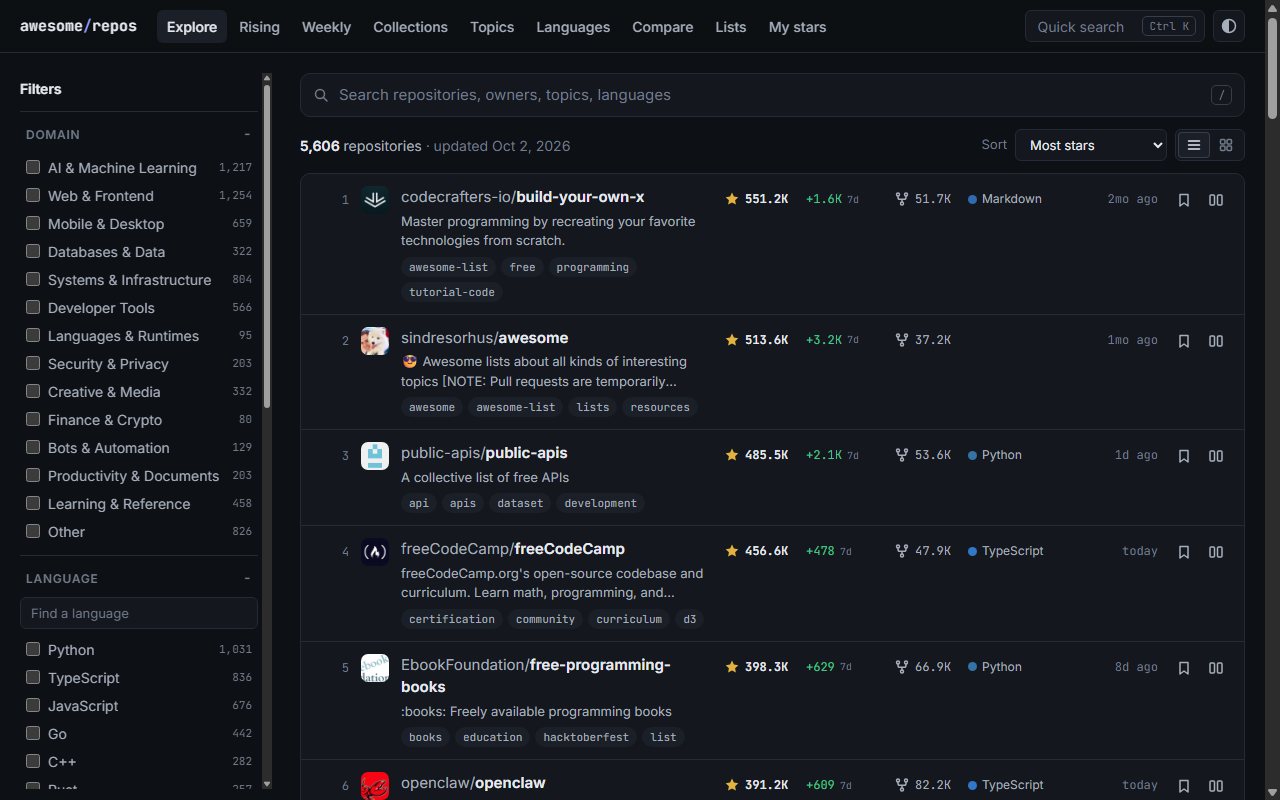
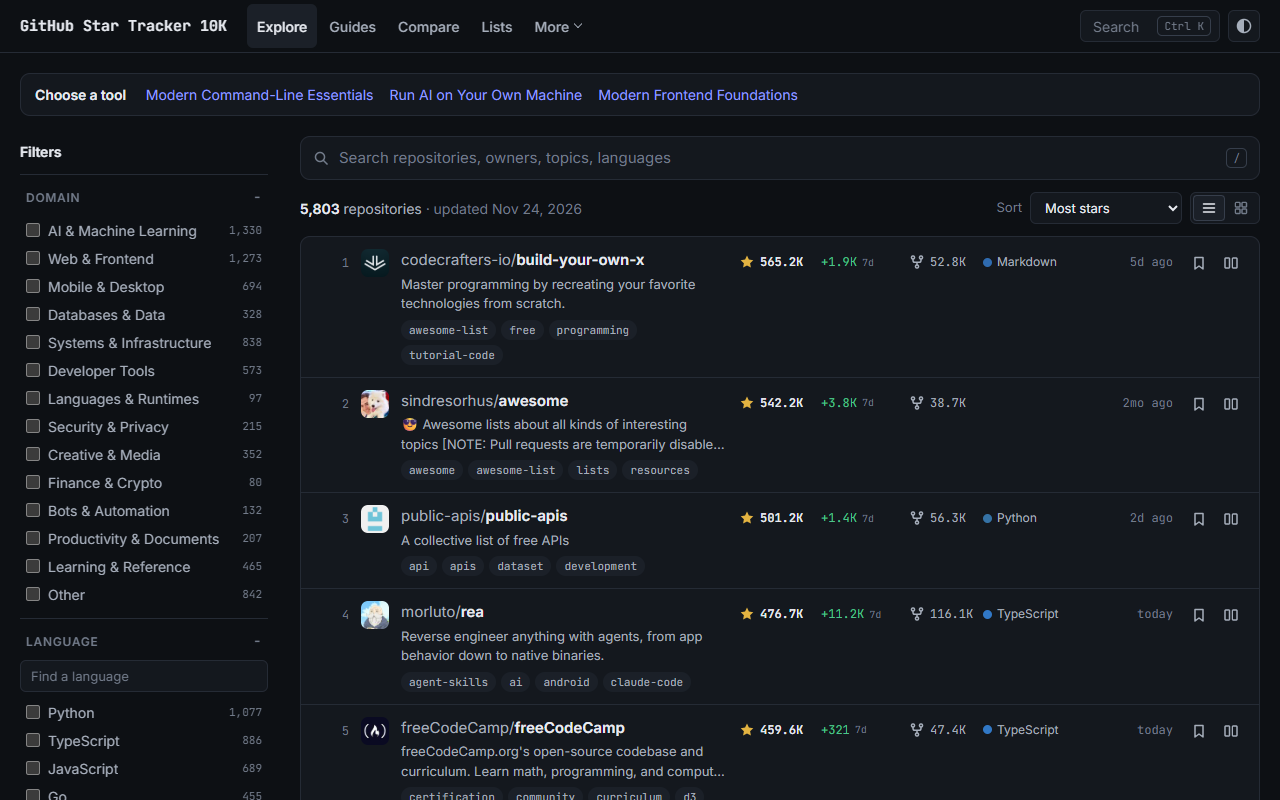
Rename to GitHub Star Tracker 10K and improve the README

diff --git a/apps/web/src/pages/weekly/feed.xml.ts b/apps/web/src/pages/weekly/feed.xml.ts
@@ -1,6 +1,7 @@
 import type { APIRoute } from 'astro';
 import { getSnapshot } from '../../lib/data';
 import { href, weekPath } from '../../lib/paths';
+import { WEEKLY_FEED_TITLE } from '../../lib/site';
 import { weekBasis, weekSummary, weekTitle } from '../../lib/weekly';
 
 function escapeXml(value: string): string {
@@ -26,7 +27,7 @@ export const GET: APIRoute = ({ site }) => {
   const feed = `<?xml version="1.0" encoding="UTF-8"?>
 <rss version="2.0">
   <channel>
-    <title>awesome/repos weekly</title>
+    <title>${escapeXml(WEEKLY_FEED_TITLE)}</title>
     <link>${escapeXml(absolute(href('/weekly/')))}</link>
     <description>What changed each week among GitHub repositories with 10,000+ stars.</description>
     <language>en</language>

diff --git a/apps/web/src/styles/base.css b/apps/web/src/styles/base.css
@@ -189,10 +189,6 @@ main.shell {
   text-decoration: none;
 }
 
-.brand span {
-  color: var(--accent);
-}
-
 .nav {
   display: flex;
   gap: 2px;
@@ -703,7 +699,11 @@ input::placeholder {
 }
 
 @media (max-width: 760px) {
-  .palette-button span {
+  .palette-button {
+    padding-inline: 8px;
+  }
+
+  .palette-button kbd {
     display: none;
   }
 
@@ -731,6 +731,14 @@ input::placeholder {
 }
 
 @media (max-width: 360px) {
+  .topbar-inner {
+    column-gap: 8px;
+  }
+
+  .brand {
+    font-size: 13px;
+  }
+
   .nav {
     gap: 0;
   }

diff --git a/packages/pipeline/src/github/health.ts b/packages/pipeline/src/github/health.ts
@@ -53,7 +53,7 @@ async function queryBatch(ids: string[], options: Required<HealthOptions>): Prom
         headers: {
           Authorization: `Bearer ${options.token}`,
           'Content-Type': 'application/json',
-          'User-Agent': 'awesome-github-repos',
+          'User-Agent': 'github-star-tracker-10k',
         },
         body: JSON.stringify({ query: QUERY, variables: { ids } }),
         signal: AbortSignal.timeout(REQUEST_TIMEOUT_MS),

diff --git a/packages/pipeline/src/github/client.ts b/packages/pipeline/src/github/client.ts
@@ -104,7 +104,7 @@ export class GitHubClient {
     const headers: Record<string, string> = {
       Accept: 'application/vnd.github+json',
       'X-GitHub-Api-Version': '2022-11-28',
-      'User-Agent': 'awesome-github-repos',
+      'User-Agent': 'github-star-tracker-10k',
     };
     if (this.token) headers.Authorization = `Bearer ${this.token}`;
 

diff --git a/apps/web/src/lib/paths.ts b/apps/web/src/lib/paths.ts
@@ -1,4 +1,4 @@
-/** Site-relative links that respect the deploy base path (e.g. /awesome-github-repos/). */
+/** Site-relative links that respect the deploy base path. */
 
 const BASE = (import.meta.env.BASE_URL ?? '/').replace(/\/$/, '');
 

diff --git a/apps/web/src/lib/site.ts b/apps/web/src/lib/site.ts
@@ -1,0 +1,2 @@
+export const SITE_NAME = 'GitHub Star Tracker 10K';
+export const WEEKLY_FEED_TITLE = `${SITE_NAME} Weekly`;

diff --git a/README.md b/README.md
@@ -1,31 +1,30 @@
-# awesome-github-repos
+# GitHub Star Tracker 10K
 
-Every public GitHub repository with 10,000+ stars, in a fast explorer that refreshes itself daily.
+Find the most-starred GitHub repositories and see which ones are gaining stars. The tracker covers every public repository with **10,000+ stars** and refreshes daily.
+
+## [Open the live website](https://joshi595.github.io/github-star-tracker-10k/)
+
+[Rising repositories](https://joshi595.github.io/github-star-tracker-10k/rising/) · [Tool guides](https://joshi595.github.io/github-star-tracker-10k/collections/) · [Compare repositories](https://joshi595.github.io/github-star-tracker-10k/compare/) · [Weekly reports](https://joshi595.github.io/github-star-tracker-10k/weekly/)
 
 <!-- STATS:START -->
 **5,800** repositories with 10,000+ stars, as of **2026-11-23**.
 <!-- STATS:END -->
 
-**Live site: [joshi595.github.io/awesome-github-repos](https://joshi595.github.io/awesome-github-repos/)**
+[![The live explorer showing popular GitHub repositories, star counts, weekly gains, and filters](.github/assets/screenshot.png)](https://joshi595.github.io/github-star-tracker-10k/)
 
-[![Publish](https://github.com/Joshi595/awesome-github-repos/actions/workflows/publish.yml/badge.svg)](https://github.com/Joshi595/awesome-github-repos/actions/workflows/publish.yml)
-[![License: MIT](https://img.shields.io/badge/license-MIT-blue.svg)](LICENSE)
+## What you can do on the site
 
-[![The explorer: a searchable, filterable list of repositories with star counts and weekly gains](.github/assets/screenshot.png)](https://joshi595.github.io/awesome-github-repos/)
+- **Find projects** by language, topic, domain, star count, or activity. Share a link to your filtered results.
+- **Track star growth** with repository history charts, weekly and monthly rankings, and reports on projects crossing 10,000 stars. Subscribe via the [weekly RSS feed](https://joshi595.github.io/github-star-tracker-10k/weekly/feed.xml).
+- **Compare your options** by putting up to four repositories side by side. Check releases, issues, and similar projects, or use the tool guides to weigh trade-offs.
+- **Save what you find** in browser-based shortlists you can share or export as Markdown. Enter a GitHub username to see which popular repositories it has starred and discover related projects.
 
-## What you can do with it
+## Rankings on GitHub
 
-- **Search and filter** by domain, language, topic, star count, activity and age. Every view has a shareable URL.
-- **See what is rising.** The site records star counts daily, so it can show weekly and monthly gainers, new entrants to the 10k club, and rank climbers. A plain star ranking cannot.
-- **Read the weekly report.** Each week gets a page with a permanent address (and an RSS feed): top gainers, fastest growers, what joined the list and what left it.
-- **Open any repository** for its star history chart, release and issue figures, similar projects and the collections it appears in.
-- **Understand a repository in one click.** Each one links to tools that explain it, diagram its architecture, digest it for an AI assistant, or write a prompt to rebuild it.
-- **Compare** up to four repositories side by side, with their growth on one chart.
-- **Check your stars.** Enter a GitHub username to see which top repositories it has starred, which are rising, and what it might like next.
-- **Save shortlists** in your browser, export them as Markdown, and share them with a link. No account.
-- **Choose a tool** with guides for the command line, local AI, and frontend development. See where each option fits, compare the trade-offs, and save your shortlist.
+The table below and the [lists by domain](lists/) are refreshed weekly.
 
-## Top 100
+<details>
+<summary>Show the top 100 repositories by stars</summary>
 
 <!-- TOP:START -->
 | # | Repository | Stars | Language | Description |
@@ -132,45 +131,32 @@ Every public GitHub repository with 10,000+ stars, in a fast explorer that refre
 | 100 | [JuliusBrussee/caveman](https://github.com/JuliusBrussee/caveman) | 122,380 | Go | why use many token when few token do trick. Skill + local proxy for coding agents: shorter answers, smaller tool output, every original recoverable. |
 <!-- TOP:END -->
 
-More Markdown lists, one per domain, are in [lists/](lists/). The site has the complete, searchable list.
-
-## How it works
-
-```
-content/            editorial input: domain taxonomy and collections
-packages/schema/    the data contract (zod schemas and types) shared by everything
-packages/pipeline/  fetch from GitHub -> classify -> history and momentum -> snapshot
-apps/web/           Astro site built from the snapshot
-fixtures/           a small sample so everything builds without a GitHub token
-.github/workflows/  daily publish, weekly README refresh, CI
-```
-
-1. `publish.yml` runs daily. It fetches every qualifying repository from GitHub's search API, splitting the star range so each query stays under GitHub's 1,000-result cap.
-2. The pipeline classifies each repository into domains, appends the day's star counts to the history, and derives momentum and similar repositories.
-3. The site is built from that snapshot and deployed to GitHub Pages.
-
-`main` holds code and editorial content only. Star history (one small file per day) and finished weekly reports live on the `data` branch. The full snapshot is never committed: the deployed site serves it at `/data/snapshot.json`.
-
-If a fetch comes back with far fewer repositories than the day before, the pipeline refuses to publish and the site keeps its last good data.
+</details>
 
 ## Run it locally
 
-You need Node.js 22 or newer. See [CONTRIBUTING.md](CONTRIBUTING.md) for a self-contained setup that installs Node into a project-local `venv_github` folder.
+Install Node.js 22 or newer and run these commands from the repository root. The sample data works without a GitHub token.
 
 ```sh
 npm install
-npm run data:sample   # build a snapshot from the bundled sample (no token needed)
-npm run dev           # http://localhost:4321
-```
-
-For real data:
-
-```sh
-npm run data:fetch    # about 4 minutes with GITHUB_TOKEN set, about 12 without
+npm run data:sample
 npm run dev
 ```
 
-Other commands: `npm test`, `npm run lint`, `npm run typecheck`, `npm run build`, and `npm run e2e` for the browser tests (see [CONTRIBUTING.md](CONTRIBUTING.md)).
+Open [localhost:4321](http://localhost:4321). For current data, run `npm run data:fetch` in place of `npm run data:sample`. See [Contributing](CONTRIBUTING.md) for setup options, tests, and how to edit the guides.
+
+## How the data is built
+
+The [Publish workflow](https://github.com/Joshi595/github-star-tracker-10k/actions/workflows/publish.yml) fetches qualifying repositories daily, using star ranges to stay below GitHub's search result limit. The pipeline categorizes projects, records daily counts on the `data` branch, and builds a snapshot for the Astro site. If a fetch returns substantially fewer results than the previous day, the site keeps its last good snapshot.
+
+Download the [current JSON snapshot](https://joshi595.github.io/github-star-tracker-10k/data/snapshot.json) or see the [data methodology](https://joshi595.github.io/github-star-tracker-10k/about/).
+
+| Directory | Contents |
+| --- | --- |
+| [`apps/web`](apps/web/) | Astro website and interactive explorer |
+| [`packages/pipeline`](packages/pipeline/) | GitHub data collection, rankings, and exports |
+| [`packages/schema`](packages/schema/) | Shared data schemas |
+| [`content`](content/) | Domains, collections, and tool guides |
 
 ## Deploying your own copy
 
@@ -178,8 +164,8 @@ Other commands: `npm test`, `npm run lint`, `npm run typecheck`, `npm run build`
 2. In **Settings > Pages**, set the source to **GitHub Actions**.
 3. Run the **Publish** workflow once (Actions tab), or push to `main`.
 
-No secrets are required; the workflow uses the token GitHub Actions provides.
+The workflow uses the token GitHub Actions provides.
 
 ## License
 
-[MIT](LICENSE). Repository data comes from GitHub's public API and belongs to its respective owners.
+[MIT](LICENSE). Repository data comes from the public GitHub API.
